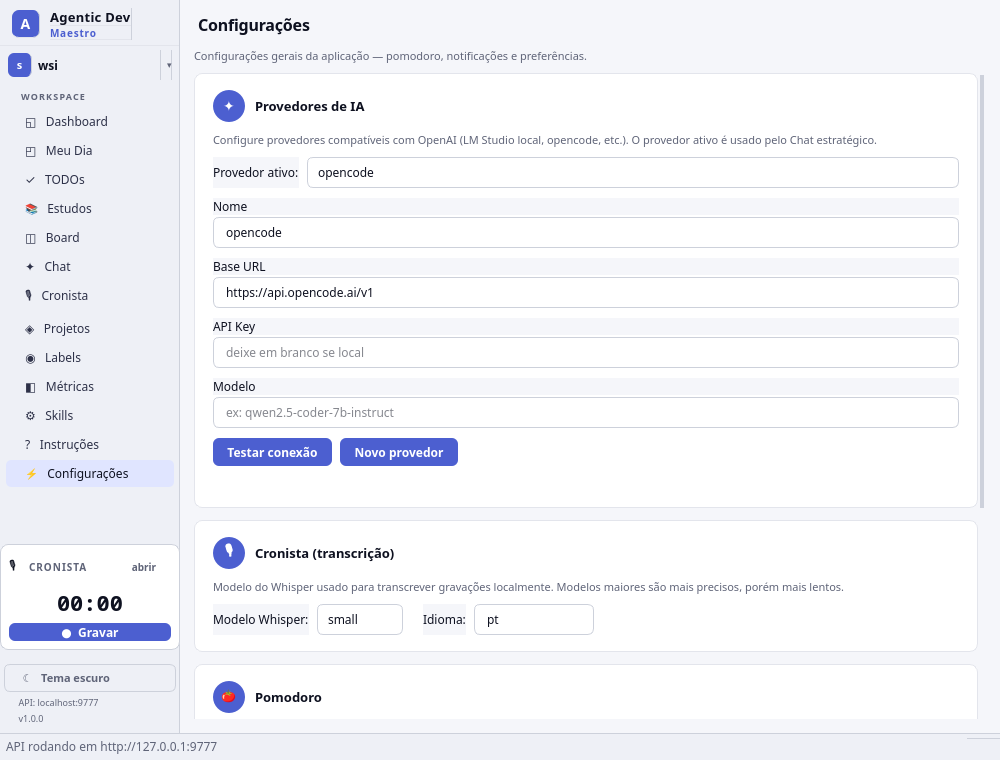
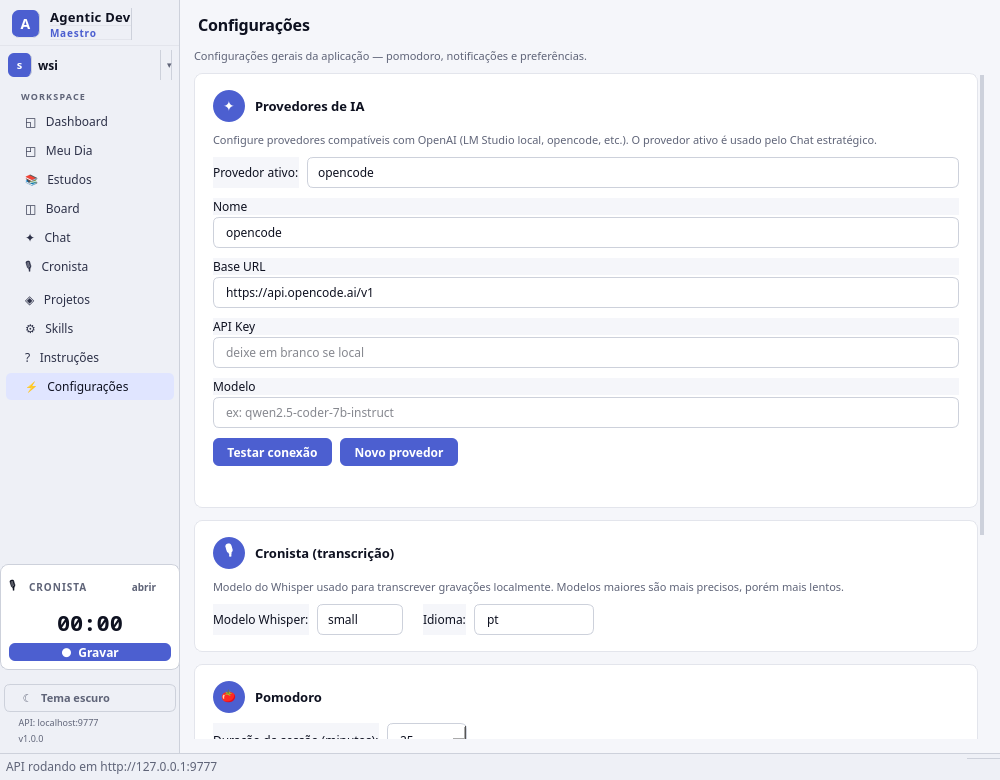
refactor: Métricas, TODOs e Labels viram abas do Dashboard
Reduz o menu de 13 para 10 itens. O Dashboard agora é um hub: visão geral
(pomodoro, cards, vencidas, atividade, projetos) fixa no topo e, abaixo,
abas Métricas/TODOs/Labels num splitter redimensionável. Atalhos de
navegação e índices internos reajustados; docs e screenshots atualizados.

diff --git a/local-client/maestro_local/gui/main_window.py b/local-client/maestro_local/gui/main_window.py
@@ -34,9 +34,6 @@ from maestro_local.gui.views.chat_view import ChatView
 from maestro_local.gui.views.cronista_view import CronistaView
 from maestro_local.gui.views.guide_view import GuideView
 from maestro_local.gui.views.settings_view import SettingsView
-from maestro_local.gui.views.todos_view import TodosView
-from maestro_local.gui.views.labels_view import LabelsView
-from maestro_local.gui.views.metrics_view import MetricsView
 from maestro_local.gui.views.projects_view import ProjectsView
 from maestro_local.gui.views.skills_view import SkillsView
 from maestro_local.gui.views.study_view import StudyView
@@ -129,14 +126,11 @@ class MainWindow(QMainWindow):
         nav_items = [
             ("Dashboard", "dashboard"),
             ("Meu Dia", "daily"),
-            ("TODOs", "todos"),
             ("Estudos", "study"),
             ("Board", "board"),
             ("Chat", "chat"),
             ("Cronista", "cronista"),
             ("Projetos", "projects"),
-            ("Labels", "labels"),
-            ("Métricas", "metrics"),
             ("Skills", "skills"),
             ("Instruções", "guide"),
             ("Configurações", "settings"),
@@ -153,7 +147,7 @@ class MainWindow(QMainWindow):
         # Cronista — acesso rápido à gravação
         self.cronista_quick = CronistaQuickWidget()
         self.cronista_quick.toggle_requested.connect(self._cronista_quick_toggle)
-        self.cronista_quick.open_requested.connect(lambda: self.nav_list.setCurrentRow(6))
+        self.cronista_quick.open_requested.connect(lambda: self.nav_list.setCurrentRow(5))
         sb_layout.addWidget(self.cronista_quick)
 
         sb_layout.addSpacing(12)
@@ -208,14 +202,11 @@ class MainWindow(QMainWindow):
         self.stack = QStackedWidget()
         self.dashboard_view = DashboardView()
         self.daily_view = DailyView()
-        self.todos_view = TodosView()
         self.study_view = StudyView()
         self.board_view = BoardView()
         self.chat_view = ChatView()
         self.cronista_view = CronistaView()
         self.projects_view = ProjectsView()
-        self.labels_view = LabelsView()
-        self.metrics_view = MetricsView()
         self.skills_view = SkillsView()
         self.guide_view = GuideView()
         self.settings_view = SettingsView()
@@ -224,14 +215,11 @@ class MainWindow(QMainWindow):
 
         self.stack.addWidget(self.dashboard_view)
         self.stack.addWidget(self.daily_view)
-        self.stack.addWidget(self.todos_view)
         self.stack.addWidget(self.study_view)
         self.stack.addWidget(self.board_view)
         self.stack.addWidget(self.chat_view)
         self.stack.addWidget(self.cronista_view)
         self.stack.addWidget(self.projects_view)
-        self.stack.addWidget(self.labels_view)
-        self.stack.addWidget(self.metrics_view)
         self.stack.addWidget(self.skills_view)
         self.stack.addWidget(self.guide_view)
         self.stack.addWidget(self.settings_view)
@@ -283,7 +271,7 @@ class MainWindow(QMainWindow):
         self._apply_theme()
 
     def _cronista_quick_toggle(self):
-        self.nav_list.setCurrentRow(6)
+        self.nav_list.setCurrentRow(5)
         self.cronista_view.toggle_record_external()
 
     def _update_cronista_quick(self):
@@ -408,7 +396,7 @@ class MainWindow(QMainWindow):
 
     def _open_board(self, project_id):
         self.board_view.set_project(project_id)
-        self.nav_list.setCurrentRow(4)
+        self.nav_list.setCurrentRow(3)
 
     def _open_task_from_dashboard(self, task_id):
         from maestro_local.gui.views.task_detail_dialog import TaskDetailDialog
@@ -500,7 +488,7 @@ class MainWindow(QMainWindow):
         self._close_search()
         if task and hasattr(self.board_view, "open_task_detail"):
             self.board_view.open_task_detail(task)
-            self.nav_list.setCurrentRow(4)
+            self.nav_list.setCurrentRow(3)
 
     # --- Notifications ---
 

diff --git a/local-client/maestro_local/gui/views/dashboard_view.py b/local-client/maestro_local/gui/views/dashboard_view.py
@@ -8,6 +8,8 @@ from PySide6.QtWidgets import (
     QProgressBar,
     QScrollArea,
     QSizePolicy,
+    QSplitter,
+    QTabWidget,
     QVBoxLayout,
     QWidget,
 )
@@ -20,6 +22,9 @@ from maestro_local.db.models import (
     get_session,
 )
 from maestro_local.gui.theme import current_theme
+from maestro_local.gui.views.labels_view import LabelsView
+from maestro_local.gui.views.metrics_view import MetricsView
+from maestro_local.gui.views.todos_view import TodosView
 from maestro_local.gui.widgets.pomodoro import PomodoroWidget
 
 
@@ -40,7 +45,6 @@ class DashboardView(QWidget):
         scroll = QScrollArea()
         scroll.setWidgetResizable(True)
         scroll.setFrameShape(QFrame.NoFrame)
-        root.addWidget(scroll, 1)
 
         container = QWidget()
         scroll.setWidget(container)
@@ -113,6 +117,33 @@ class DashboardView(QWidget):
 
         self._layout.addStretch()
 
+        # Abas com ferramentas que deixaram de ser página própria
+        self._tabs = QTabWidget()
+        self._tab_metrics = MetricsView()
+        self._tab_todos = TodosView()
+        self._tab_labels = LabelsView()
+        self._tabs.addTab(self._tab_metrics, "Métricas")
+        self._tabs.addTab(self._tab_todos, "TODOs")
+        self._tabs.addTab(self._tab_labels, "Labels")
+        self._tabs.currentChanged.connect(self._on_tab_changed)
+
+        # Dashboard fixo no topo, abas abaixo (redimensionável)
+        splitter = QSplitter(Qt.Vertical)
+        splitter.addWidget(scroll)
+        splitter.addWidget(self._tabs)
+        splitter.setStretchFactor(0, 3)
+        splitter.setStretchFactor(1, 2)
+        splitter.setSizes([420, 340])
+        root.addWidget(splitter, 1)
+
+    def _on_tab_changed(self, _index):
+        self._refresh_active_tab()
+
+    def _refresh_active_tab(self):
+        w = self._tabs.currentWidget()
+        if w and hasattr(w, "refresh"):
+            w.refresh()
+
     def _make_summary_card(self, label_text):
         frame = QFrame()
         frame.setProperty("class", "card")
@@ -141,6 +172,7 @@ class DashboardView(QWidget):
             self._refresh_projects(s)
         finally:
             s.close()
+        self._refresh_active_tab()
 
     def _refresh_summary(self, s):
         active_tasks = (

diff --git a/local-client/maestro_local/gui/views/guide_view.py b/local-client/maestro_local/gui/views/guide_view.py
@@ -160,18 +160,17 @@ SECTIONS = [
         "title": "Atalhos de teclado",
         "body": (
             "- Ctrl+K — Busca global de tarefas\n"
-            "- Alt+1 — Dashboard\n"
+            "- Alt+1 — Dashboard (Métricas, TODOs e Labels ficam aqui em abas)\n"
             "- Alt+2 — Meu Dia\n"
-            "- Alt+3 — TODOs\n"
-            "- Alt+4 — Estudos\n"
-            "- Alt+5 — Board\n"
-            "- Alt+6 — Chat estratégico\n"
-            "- Alt+7 — Cronista\n"
-            "- Alt+8 — Projetos\n"
-            "- Alt+9 — Labels\n"
-            "- Alt+0 — Métricas\n"
+            "- Alt+3 — Estudos\n"
+            "- Alt+4 — Board\n"
+            "- Alt+5 — Chat estratégico\n"
+            "- Alt+6 — Cronista\n"
+            "- Alt+7 — Projetos\n"
+            "- Alt+8 — Skills\n"
+            "- Alt+9 — Instruções (esta tela)\n"
+            "- Alt+0 — Configurações\n"
             "- Ctrl+Shift+R — Iniciar/parar gravação (global)\n"
-            "- Skills, Instruções e Configurações — pela barra lateral\n"
             "- Escape — Fechar busca"
         ),
     },

diff --git a/local-client/README.md b/local-client/README.md
@@ -38,7 +38,7 @@ maestro --port 8888  # porta customizada
 ## O que a aplicação faz
 
 Ao iniciar, o Maestro abre:
-1. **GUI desktop** (PySide6/Qt 6) — interface gráfica com 13 telas
+1. **GUI desktop** (PySide6/Qt 6) — interface gráfica com 10 telas no menu (+ Métricas, TODOs e Labels como abas do Dashboard)
 2. **API REST** (FastAPI/uvicorn) — `http://127.0.0.1:9777/api` em thread daemon
 
 A tela inicial é **Meu Dia**, que funciona como home da aplicação.
@@ -57,7 +57,7 @@ Tela principal do dia de trabalho:
 - **Atividade do dia**: timeline com todas as ações do dia (tasks criadas, movidas, comentadas)
 - **Backup do Banco**: exportar cópia do banco SQLite
 
-### TODOs (Alt+3)
+### TODOs (aba do Dashboard)
 
 Lista rápida de pendências, separada do board:
 
@@ -69,15 +69,17 @@ Lista rápida de pendências, separada do board:
 
 ### Dashboard (Alt+1)
 
-Visão geral do workspace:
+Hub central do workspace. No topo (fixo): 
 
-- **Pomodoro**: timer de foco em destaque no topo
+- **Pomodoro**: timer de foco em destaque
 - **Cards de resumo**: tarefas ativas, concluídas (7 dias), vencidas, em progresso
 - **Tarefas vencidas**: lista clicável que abre o detalhe da tarefa
 - **Atividade recente**: timeline das últimas 15 ações agrupadas por dia
 - **Projetos**: progresso de cada projeto com barra e contagem por coluna
 
-### Estudos (Alt+4)
+Abaixo, em **abas** (antes eram páginas próprias): **Métricas**, **TODOs** e **Labels**.
+
+### Estudos (Alt+3)
 
 Módulo de aprendizado:
 
@@ -87,7 +89,7 @@ Módulo de aprendizado:
 - **Sessões de estudo**: registrar tempo de estudo com notas e nível de confiança (1-5)
 - **Estatísticas**: horas totais, sessões por semana, planos ativos
 
-### Board Kanban (Alt+5)
+### Board Kanban (Alt+4)
 
 Board de tarefas por projeto:
 
@@ -100,7 +102,7 @@ Board de tarefas por projeto:
 - **Task detail**: dialog completo com título, descrição, tipo, prioridade, assignee, due date, labels, checklist (Definition of Done), dependências, comentários com markdown
 - **Tarefas de revisão**: agentes sempre criam tarefas com `requiresHuman: true` para o desenvolvedor validar alterações
 
-### Chat estratégico (Alt+6)
+### Chat estratégico (Alt+5)
 
 Assistente de IA interno que roda com seu próprio provedor:
 
@@ -109,7 +111,7 @@ Assistente de IA interno que roda com seu próprio provedor:
 - **Execução assíncrona**: roda em thread separada, sem travar a interface
 - **Configuração**: provedor ativo definido em Configurações → Provedores de IA (Base URL, API Key e Modelo)
 
-### Cronista (Alt+7)
+### Cronista (Alt+6)
 
 Gravação, transcrição e resumo de reuniões e estudos (migrado do projeto wsi-cronista):
 
@@ -123,19 +125,19 @@ Gravação, transcrição e resumo de reuniões e estudos (migrado do projeto ws
 - **Atalho global**: `Ctrl+Shift+R` inicia/para a gravação (best-effort; pode não funcionar em Wayland)
 - **Acesso rápido**: widget na sidebar inicia a gravação em 1 clique e mostra o tempo decorrido
 
-### Projetos (Alt+8)
+### Projetos (Alt+7)
 
 - Criar projetos com nome, chave única (ex: DEMO, PROJ) e descrição
 - Cada projeto gera automaticamente colunas padrão no board
 - Visão de lista com link para o board
 
-### Labels (Alt+9)
+### Labels (aba do Dashboard)
 
 - Criar labels com nome e cor (paleta de 12 cores)
 - Aplicar labels em tarefas para categorizar e filtrar
 - Labels compartilhadas entre projetos do mesmo workspace
 
-### Métricas (Alt+0)
+### Métricas (aba do Dashboard)
 
 Dashboard analítico:
 
@@ -145,7 +147,7 @@ Dashboard analítico:
 - **Por prioridade**: breakdown Low/Medium/High/Urgent com percentual
 - **Por projeto**: progresso de cada projeto com barra
 
-### Skills
+### Skills (Alt+8)
 
 Biblioteca de skills para agentes de IA:
 
@@ -155,11 +157,11 @@ Biblioteca de skills para agentes de IA:
 - **Preview**: ver o conteúdo da skill antes de instalar
 - **Diretório destino**: selecionar o projeto onde instalar as skills
 
-### Instruções
+### Instruções (Alt+9)
 
 Guia de uso reestruturado com 12 seções, incluindo explicações de cada tela, fluxo de trabalho, o papel dos agentes e tarefas de revisão.
 
-### Configurações
+### Configurações (Alt+0)
 
 Tela de configurações gerais:
 
@@ -179,7 +181,7 @@ Tela de configurações gerais:
 | **Workspaces** | Isolamento completo com banco separado, emoji, cor e descrição customizáveis |
 | **Obsidian sync** | Auto-sync a cada 5 min, vault configurável por workspace/projeto |
 | **Backup** | Exportar banco SQLite a qualquer momento |
-| **Atalhos** | `Alt+1` a `Alt+9` + `Alt+0` (10 primeiras telas), `Ctrl+K` busca, `Ctrl+Shift+R` gravação |
+| **Atalhos** | `Alt+1` a `Alt+9` + `Alt+0` para as 10 telas do menu, `Ctrl+K` busca, `Ctrl+Shift+R` gravação |
 
 ## API REST
 

diff --git a/README.md b/README.md
@@ -39,11 +39,8 @@ Após a instalação, abra o Maestro pelo atalho ou execute `local-client/run.sh
 ### Meu Dia (home)
 Tela principal com notas diárias em markdown, template pre-configurado, geração de relatório automático com resumo de atividades, e sincronização com Obsidian vault. Date picker com calendário popup para navegar entre dias. Inclui dica de prompt para que agentes de IA gerem o resumo via skill.
 
-### TODOs
-Lista rápida de pendências, sem board nem colunas. Adicionar, marcar como concluído, remover e limpar concluídos. Acessível também via API (`/api/todos`) para os agentes gerenciarem.
-
 ### Dashboard
-Visão geral com Pomodoro em destaque, cards de resumo (tarefas ativas, concluídas, vencidas, em progresso), lista de tarefas vencidas clicáveis, atividade recente com timeline, e progresso por projeto.
+Hub central: no topo, Pomodoro em destaque, cards de resumo (tarefas ativas, concluídas, vencidas, em progresso), tarefas vencidas clicáveis, atividade recente e progresso por projeto. Abaixo, em abas: **Métricas**, **TODOs** e **Labels**.
 
 ### Board Kanban
 Board com drag-and-drop, colunas customizáveis por projeto, filtros por tipo/prioridade/responsável, botão quick-move para avançar tarefas, WIP limits e indicador de code review obrigatório. Agentes sempre criam tarefas de revisão (`requiresHuman: true`) para o desenvolvedor validar alterações.
@@ -108,7 +105,7 @@ python -m maestro_local
 ```
 
 A aplicação abre com:
-- **GUI desktop** — interface completa com 13 telas (atalhos Alt+1 a Alt+9, Alt+0)
+- **GUI desktop** — interface completa com 10 telas no menu (Métricas, TODOs e Labels viraram abas do Dashboard)
 - **API REST** — `http://127.0.0.1:9777/api` para agentes de IA
 
 ### Porta customizada
@@ -161,8 +158,6 @@ A API roda em `http://127.0.0.1:9777/api` sem autenticação. Endpoints principa
 ![Chat estratégico](local-client/docs/screenshots/chat-light.png)
 ![Cronista](local-client/docs/screenshots/cronista-light.png)
 ![Skills](local-client/docs/screenshots/skills-light.png)
-![Métricas](local-client/docs/screenshots/metricas-light.png)
-![TODOs](local-client/docs/screenshots/todos-light.png)
 ![Instruções](local-client/docs/screenshots/instrucoes-light.png)
 ![Configurações](local-client/docs/screenshots/configuracoes-light.png)
 
@@ -172,7 +167,7 @@ A API roda em `http://127.0.0.1:9777/api` sem autenticação. Endpoints principa
 agentic-dev-maestro/
 ├── local-client/              # App principal (Python/PySide6)
 │   ├── maestro_local/         # Código fonte
-│   │   ├── gui/views/         # 13 telas da interface
+│   │   ├── gui/views/         # telas da interface (Dashboard com abas)
 │   │   ├── api/               # FastAPI endpoints
 │   │   ├── db/                # SQLAlchemy models + SQLite
 │   │   └── skills/            # Catálogo de 12 skills
